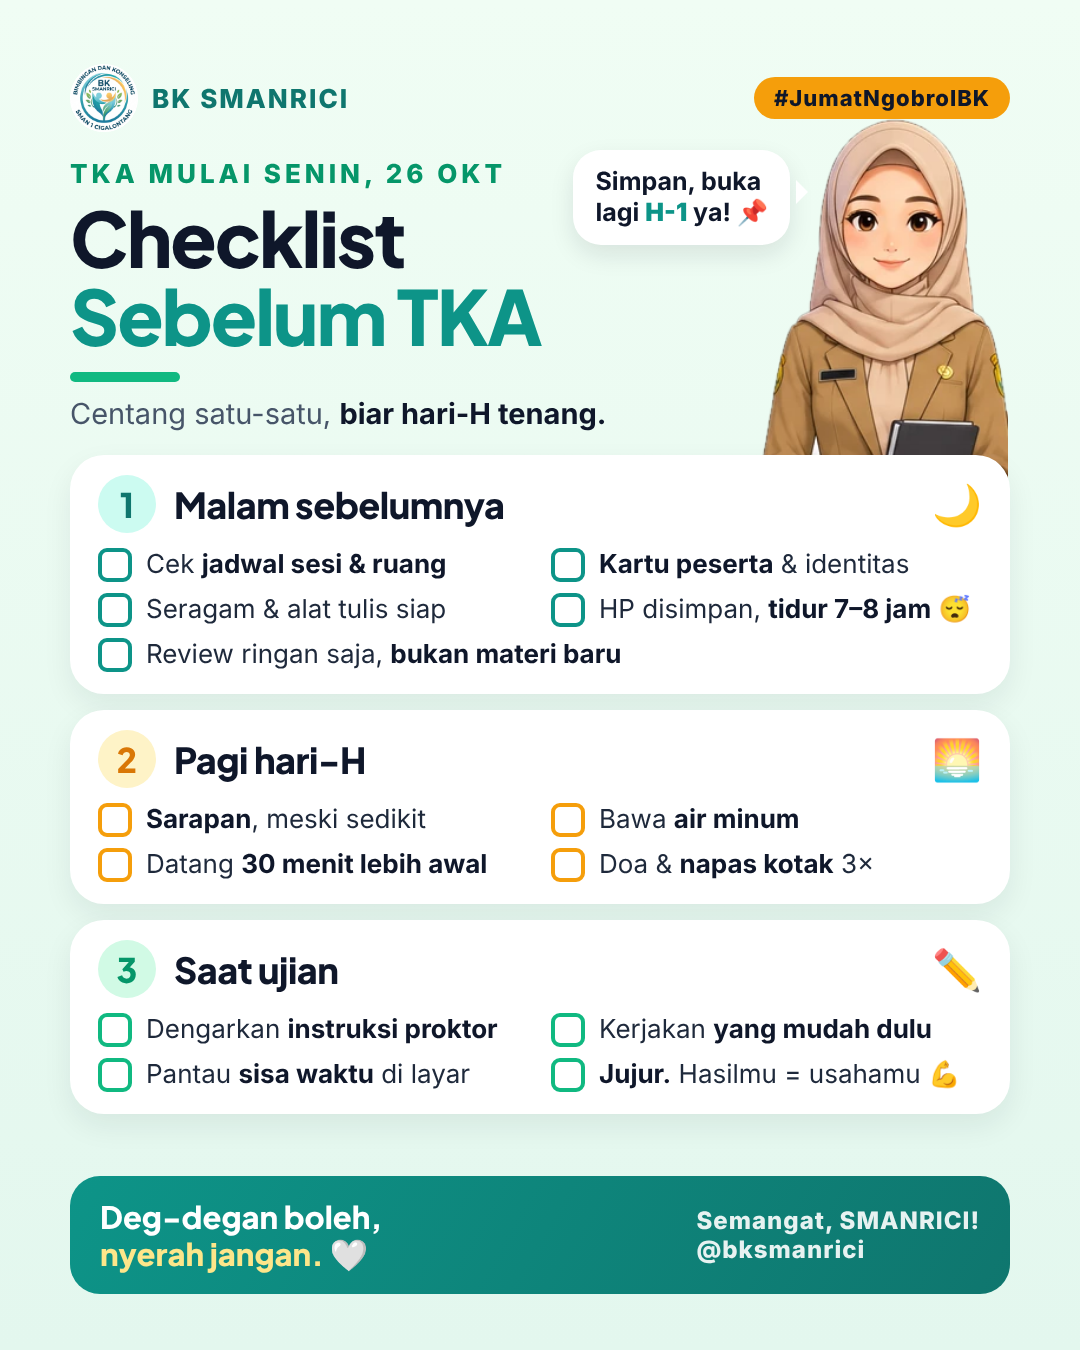
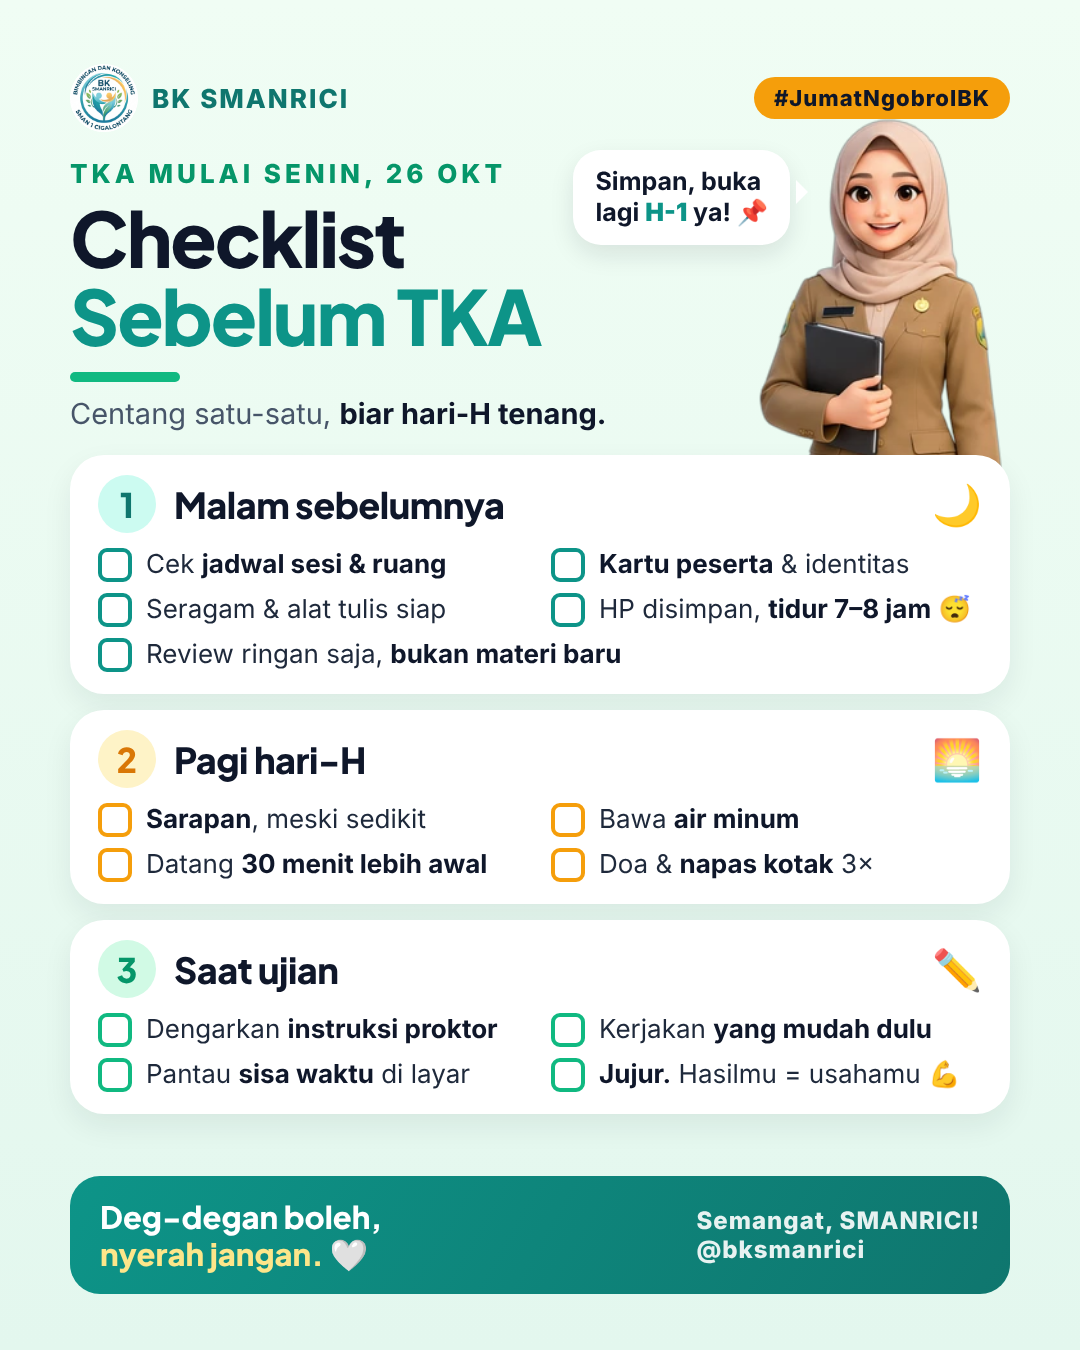
Ganti guru BK di infografis Checklist TKA dengan karakter 3D
Claude-Session: https://claude.ai/code/session_018WWHGzf43cnjJy346VsAtj

Changed region(s): [[0.7028, 0.0933, 0.9472, 0.3422]]

diff --git a/BK-Cigalontang/konten-instagram/desain/checklist-tka.html b/BK-Cigalontang/konten-instagram/desain/checklist-tka.html
@@ -47,7 +47,7 @@
 
   /* Guru BK mengintip di kanan atas */
   .potong-guru { position: absolute; right: 72px; top: 118px; width: 250px; height: 360px; overflow: hidden; z-index: 1; }
-  .guru { width: 250px; height: 970px; display: block; }
+  .guru { width: 250px; height: auto; display: block; }
   .gelembung { position: absolute; right: 290px; top: 150px; z-index: 2; background: #fff; border-radius: 28px;
                padding: 16px 22px; font-size: 25px; font-weight: 700; color: var(--tinta); line-height: 1.25;
                box-shadow: 0 10px 24px rgba(15,23,42,.10); }
@@ -82,7 +82,7 @@
 <div class="wrap"><section class="slide" id="checklist-tka">
   <div class="bar"><div class="logo"><img src="../brand/logo-bk-smanrici.png" alt="">BK SMANRICI</div><div class="tag">#JumatNgobrolBK</div></div>
 
-  <div class="potong-guru"><img class="guru" src="../brand/karakter/guru-bk-putri-depan.png" alt=""></div>
+  <div class="potong-guru"><img class="guru" src="../brand/karakter/3d/guru-bk-putri/tampak-depan.png" alt=""></div>
   <div class="gelembung">Simpan, buka<br>lagi <b>H-1</b> ya! 📌</div>
 
   <div class="judul">
